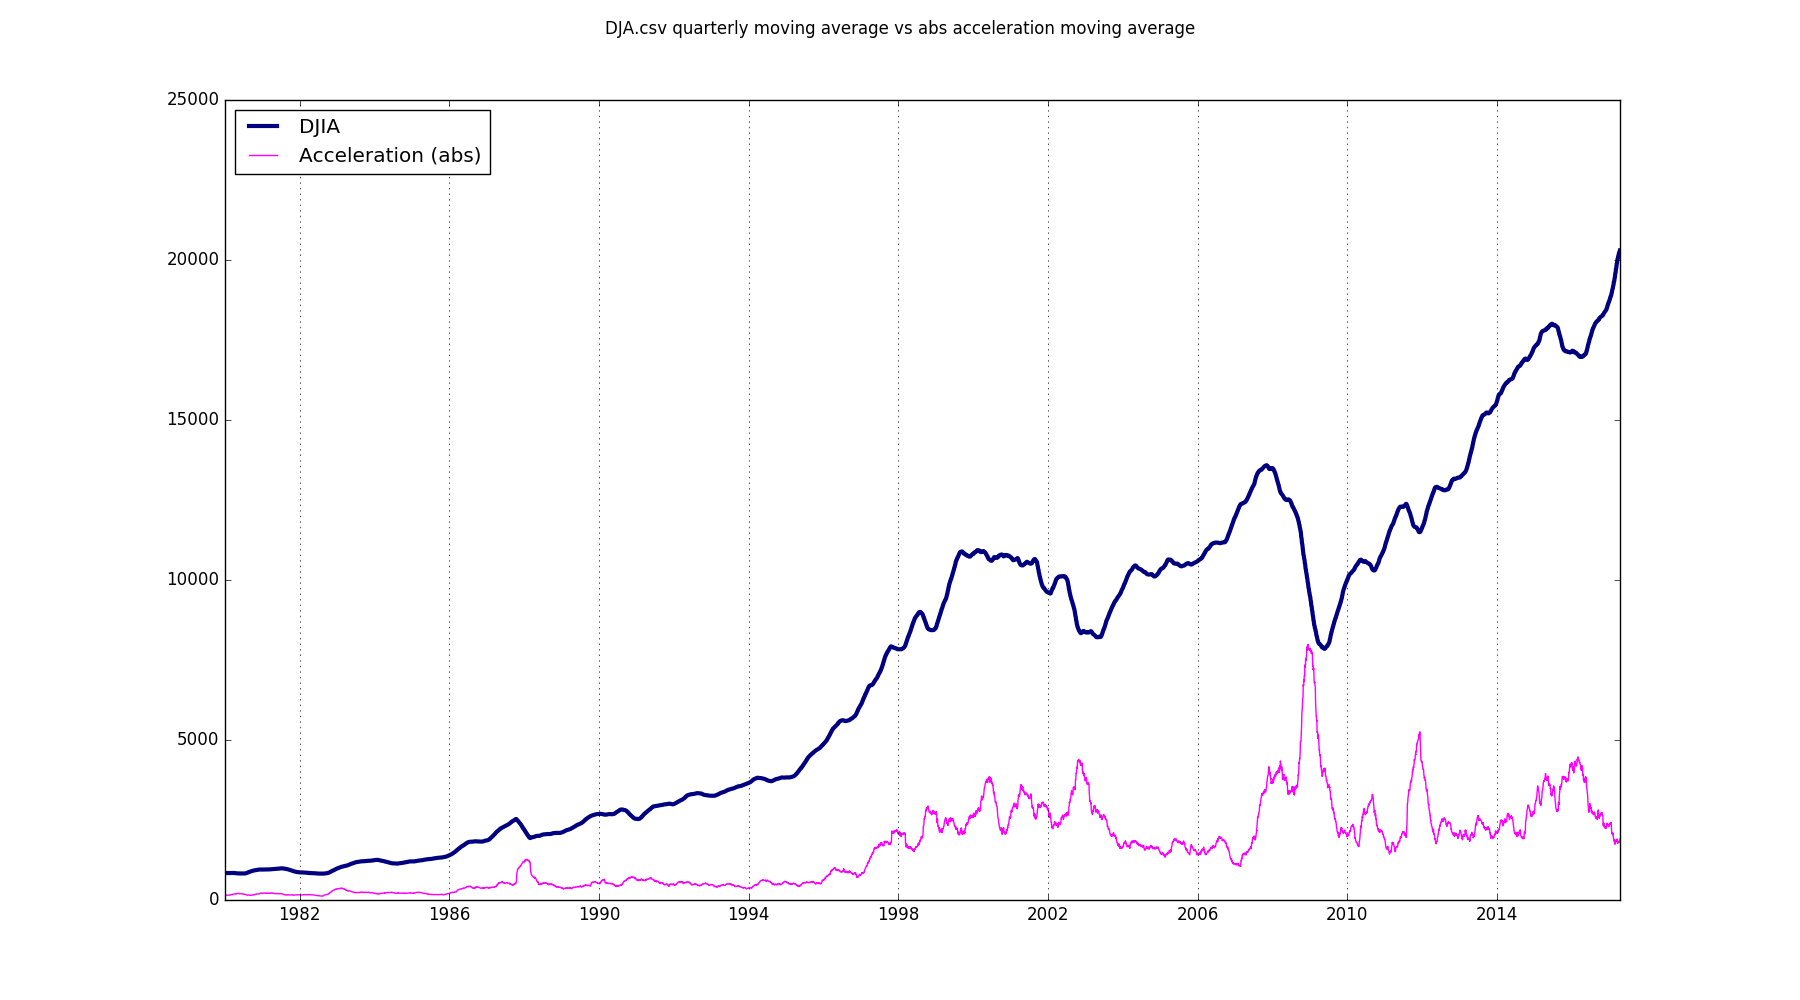
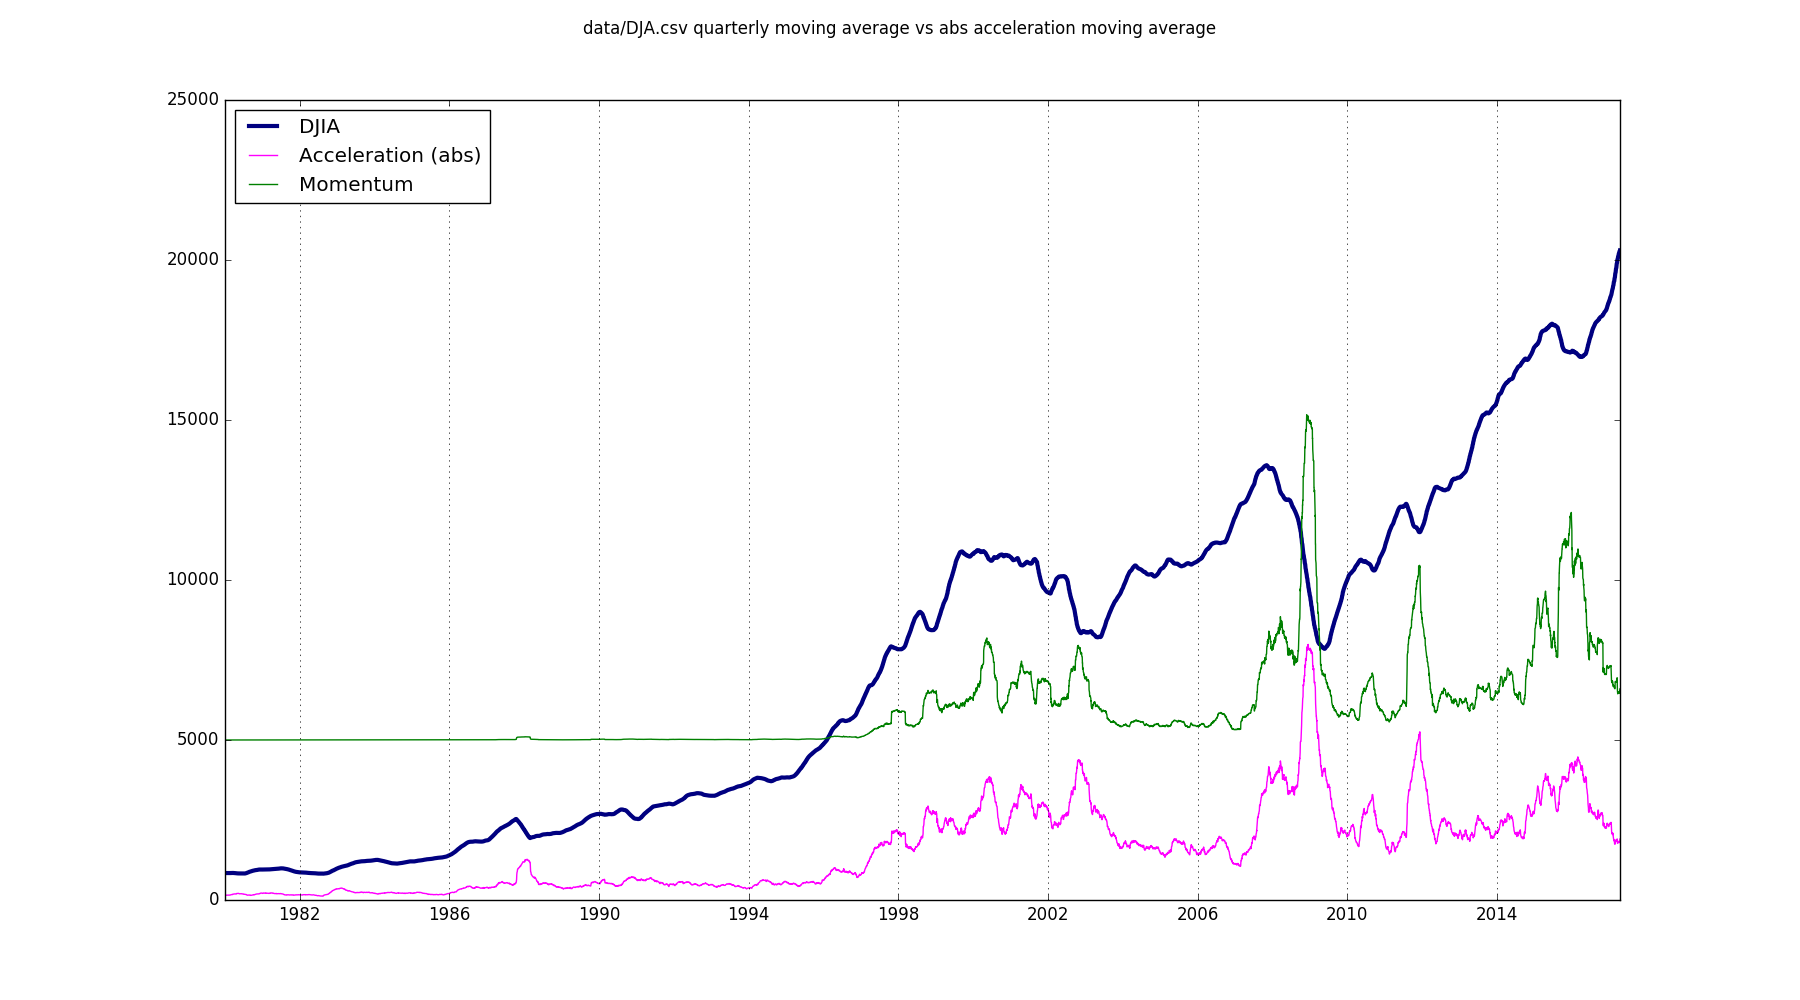
Rename file, add momentum

diff --git a/VelocityAccelerationMomentum.py b/VelocityAccelerationMomentum.py
@@ -1,0 +1,137 @@
+# http://github.com/timestocome
+
+
+
+import pandas as pd
+import numpy as np
+import matplotlib.pyplot as plt 
+import os
+
+pd.options.display.max_rows = 100
+pd.options.display.max_columns = 25
+pd.options.display.width = 1000
+
+# http://faculty.chicagobooth.edu/workshops/finance/pdf/Shleiferbff.pdf
+# Paper looks at acceleration, number of new businesses and volality
+
+# What can be told just using acceleration on the daily price?
+# seems to be a pattern between absolute value of acceleration and bull/bear markets
+# Acceration seems to peak just before market bottoms out, 
+# not as clear indicator for market topping out.
+
+
+
+
+def movement(file_name, dailyPrice):
+
+    # read in file
+    stock = pd.read_csv(file_name, parse_dates=True, index_col=0)        # 31747 days of data 
+    n_samples = len(stock)
+
+
+    # daily change in stock (derivative)
+    stock['dx'] = stock[dailyPrice] - stock[dailyPrice].shift(1)      # points
+    stock['percent_dx'] = stock['dx'] / stock[dailyPrice]         # percent
+
+    # 2nd derviative
+    stock['d2x'] = stock['dx'] - stock['dx'].shift(1) 
+    stock['percent_d2x'] = stock['d2x'] / stock[dailyPrice]
+
+
+    # abs value of dx, d2x, 
+    w = 92
+    stock['dx_abs'] = stock['dx'].abs()
+    stock['d2x_abs'] = stock['d2x'].abs()
+    stock['dx_abs_ma'] = stock['dx_abs'].rolling(window=w).mean()
+    stock['d2x_abs_ma'] = stock['d2x_abs'].rolling(window=w).mean()
+    stock['stock_ma'] = stock[dailyPrice].rolling(window=w).mean()
+    stock['dx_ma'] = stock['dx'].rolling(window=w).mean()
+    stock['d2x_ma'] = stock['d2x'].rolling(window=w).mean()
+
+    # momentum of price
+    stock['momentum'] = ((stock[dailyPrice] * stock['dx'] * stock['dx']) **1./3.).rolling(window=w).mean()
+
+
+    # write to disk
+    print(os.path.basename(file_name))
+    f_name = 'data/vma_' + os.path.basename(file_name)
+    stock.to_csv(f_name)
+
+
+    correlations = stock.corr()
+
+    # plot 
+    recent = stock.loc[stock.index > '01-01-1980']
+
+    fig = plt.figure(figsize=(18, 10))  # in inches
+    ax = fig.add_subplot(111)
+    ax.xaxis.grid(True, which='major')
+
+
+    title = '%s Daily Stock, Abs Acceleration, Momentum' % ( file_name)
+    fig.suptitle(title)
+
+    ax.plot(recent['stock_ma'], color='navy', linewidth=3, label=dailyPrice)
+    # scale to make plots more readable
+    ax.plot(recent['d2x_abs_ma'] * 20., c='magenta', linewidth=1, label='Acceleration (abs)')
+    ax.plot(recent['momentum'] / stock[dailyPrice].mean() + stock[dailyPrice].mean(), c='green', linewidth=1, label='Momentum')
+    legend = ax.legend(loc='upper left')
+
+
+
+    return plt, correlations
+
+
+
+
+file_name = 'data/djia.csv'
+dailyPrice = 'Close'
+dja, dja_corr = movement(file_name, dailyPrice)
+
+file_name = 'data/nasdaq.csv'
+dailyPrice = 'Close'
+nasdaq, nasdaq_corr = movement(file_name, dailyPrice)
+
+file_name = 'data/S&P.csv'
+dailyPrice = 'Close'
+sp, sp_corr = movement(file_name, dailyPrice)
+
+file_name = 'data/Russell2000.csv'
+dailyPrice = 'Close'
+russell, russell_corr = movement(file_name, dailyPrice)
+
+#plt.show()
+print("Correlations")
+print('DJIA')
+print(dja_corr['Close'])
+
+print("NASDAQ")
+print(nasdaq_corr['Close'])
+
+print("S&P 500")
+print(sp_corr['Close'])
+
+print("Russell 200")
+print(russell_corr['Close'])
+
+
+'''
+#############################################################################
+# peak gain/losses in a day
+#############################################################################
+n_peaks = 100
+
+top_gains = stock.nlargest(n_peaks, 'percent_dx')
+top_gains = top_gains.sort_index()
+
+top_losses = stock.nsmallest(n_peaks, 'percent_dx')
+top_losses = top_losses.sort_index()
+
+print("Top ", n_peaks)
+print(top_gains[['percent_dx']])
+
+print('-------------------------------------')
+print("Bottom ", n_peaks)
+print(top_losses[['percent_dx']])
+
+'''
